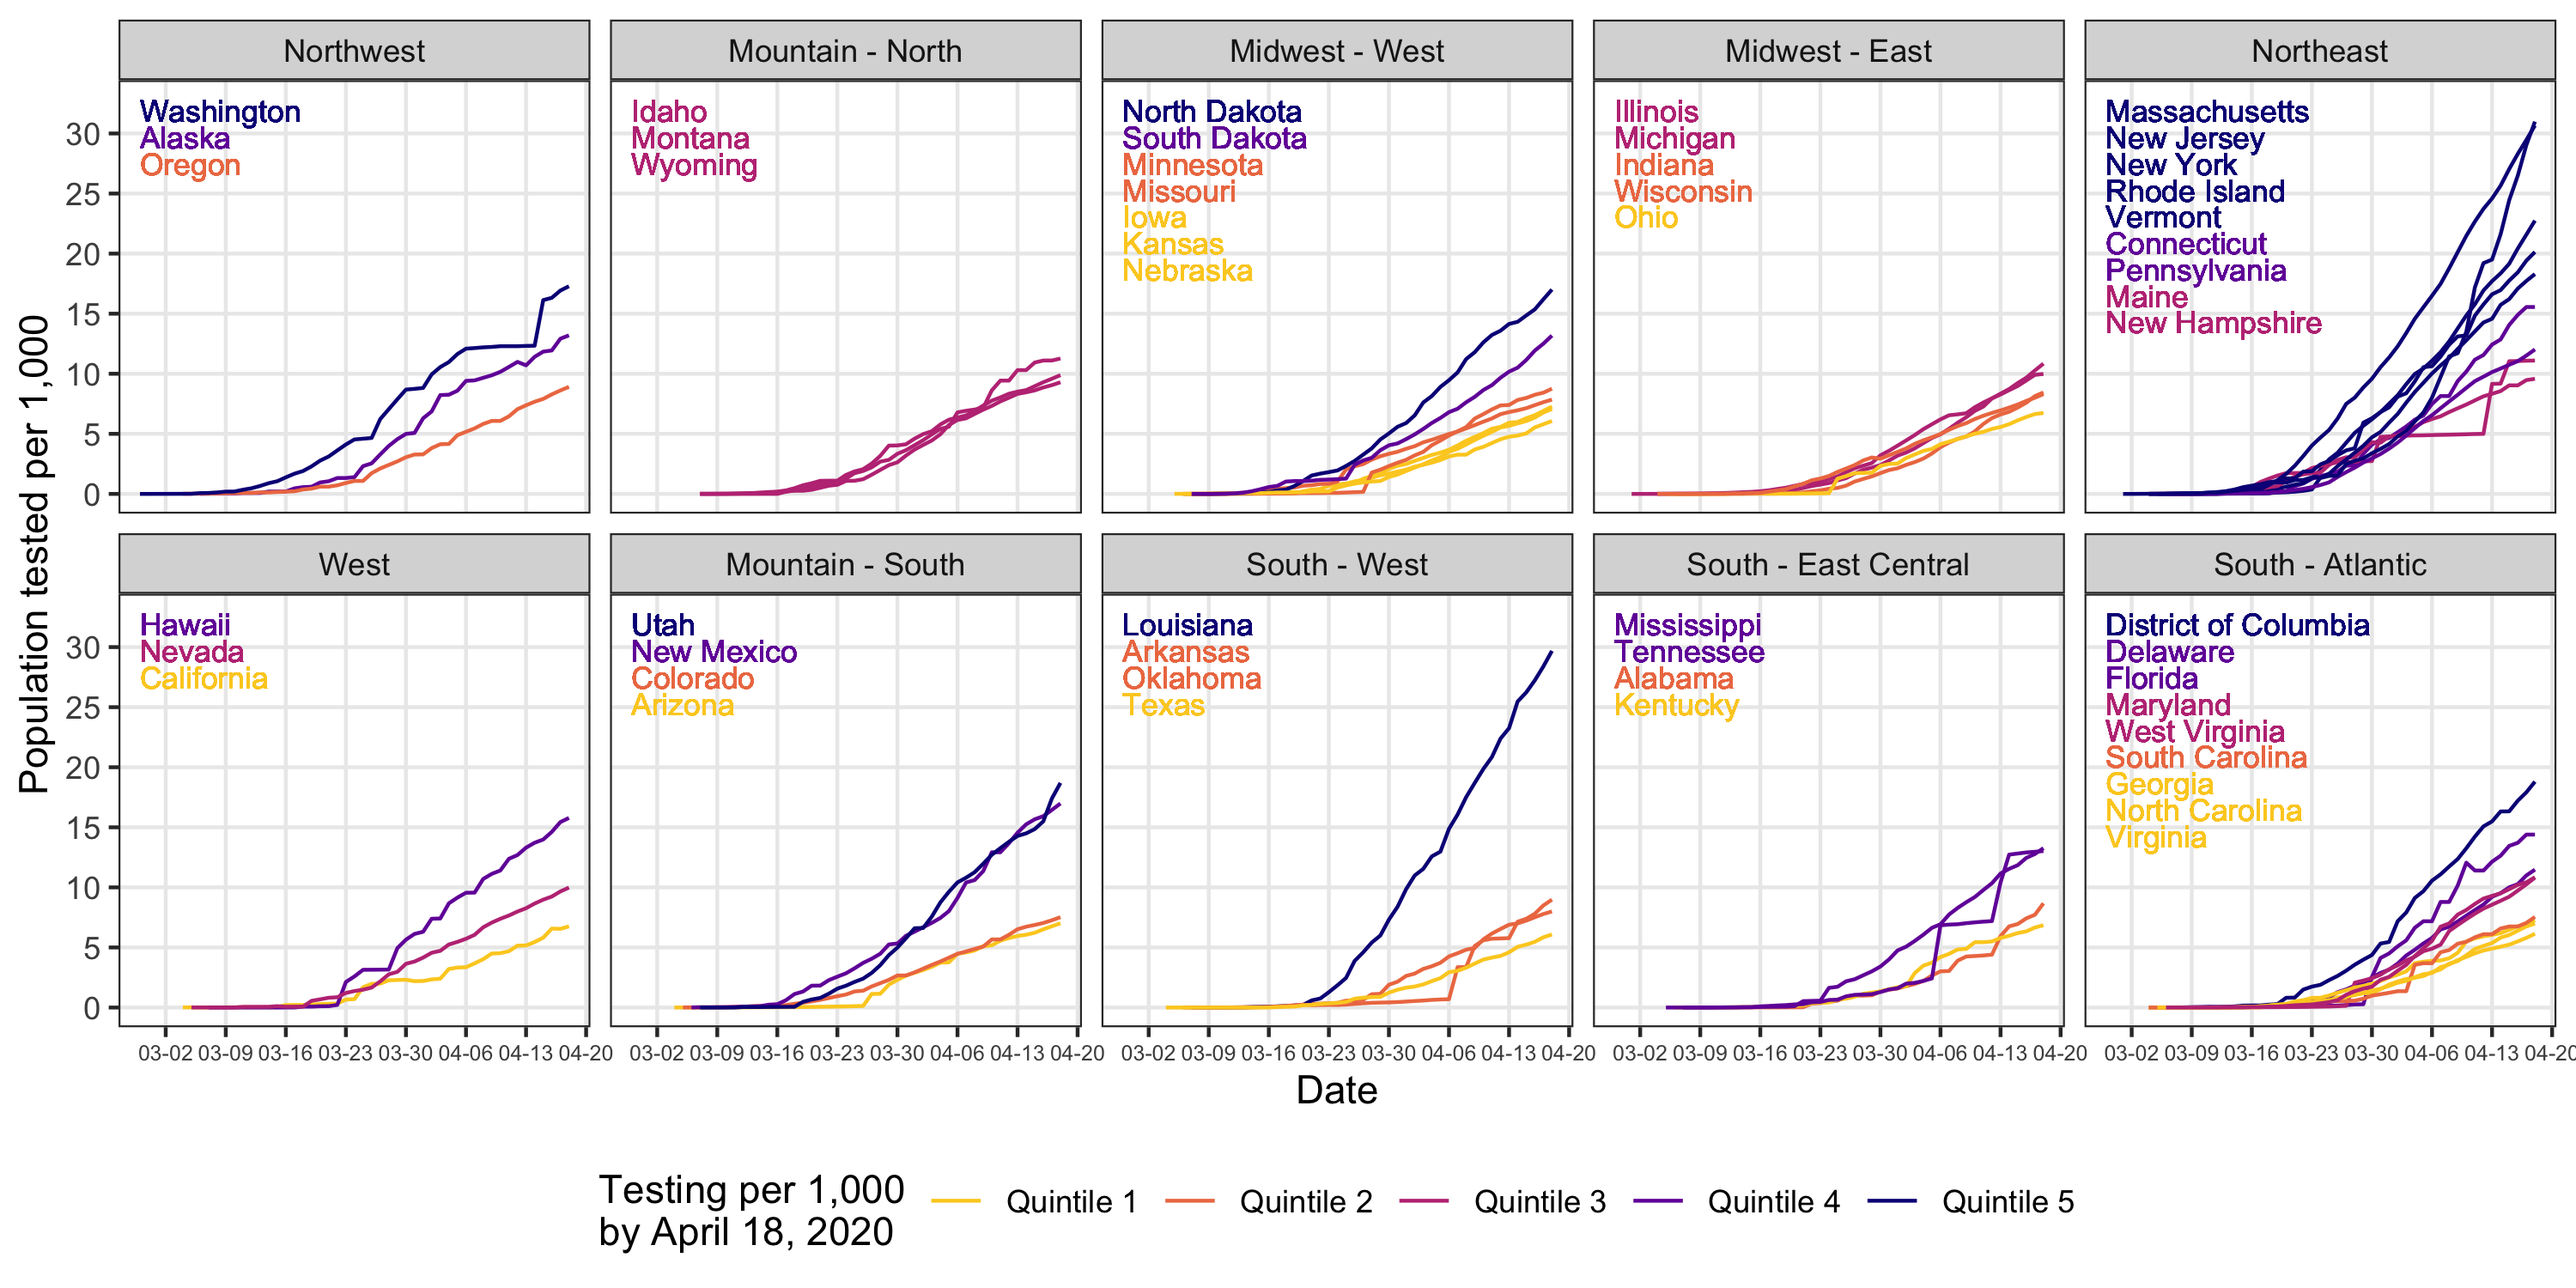
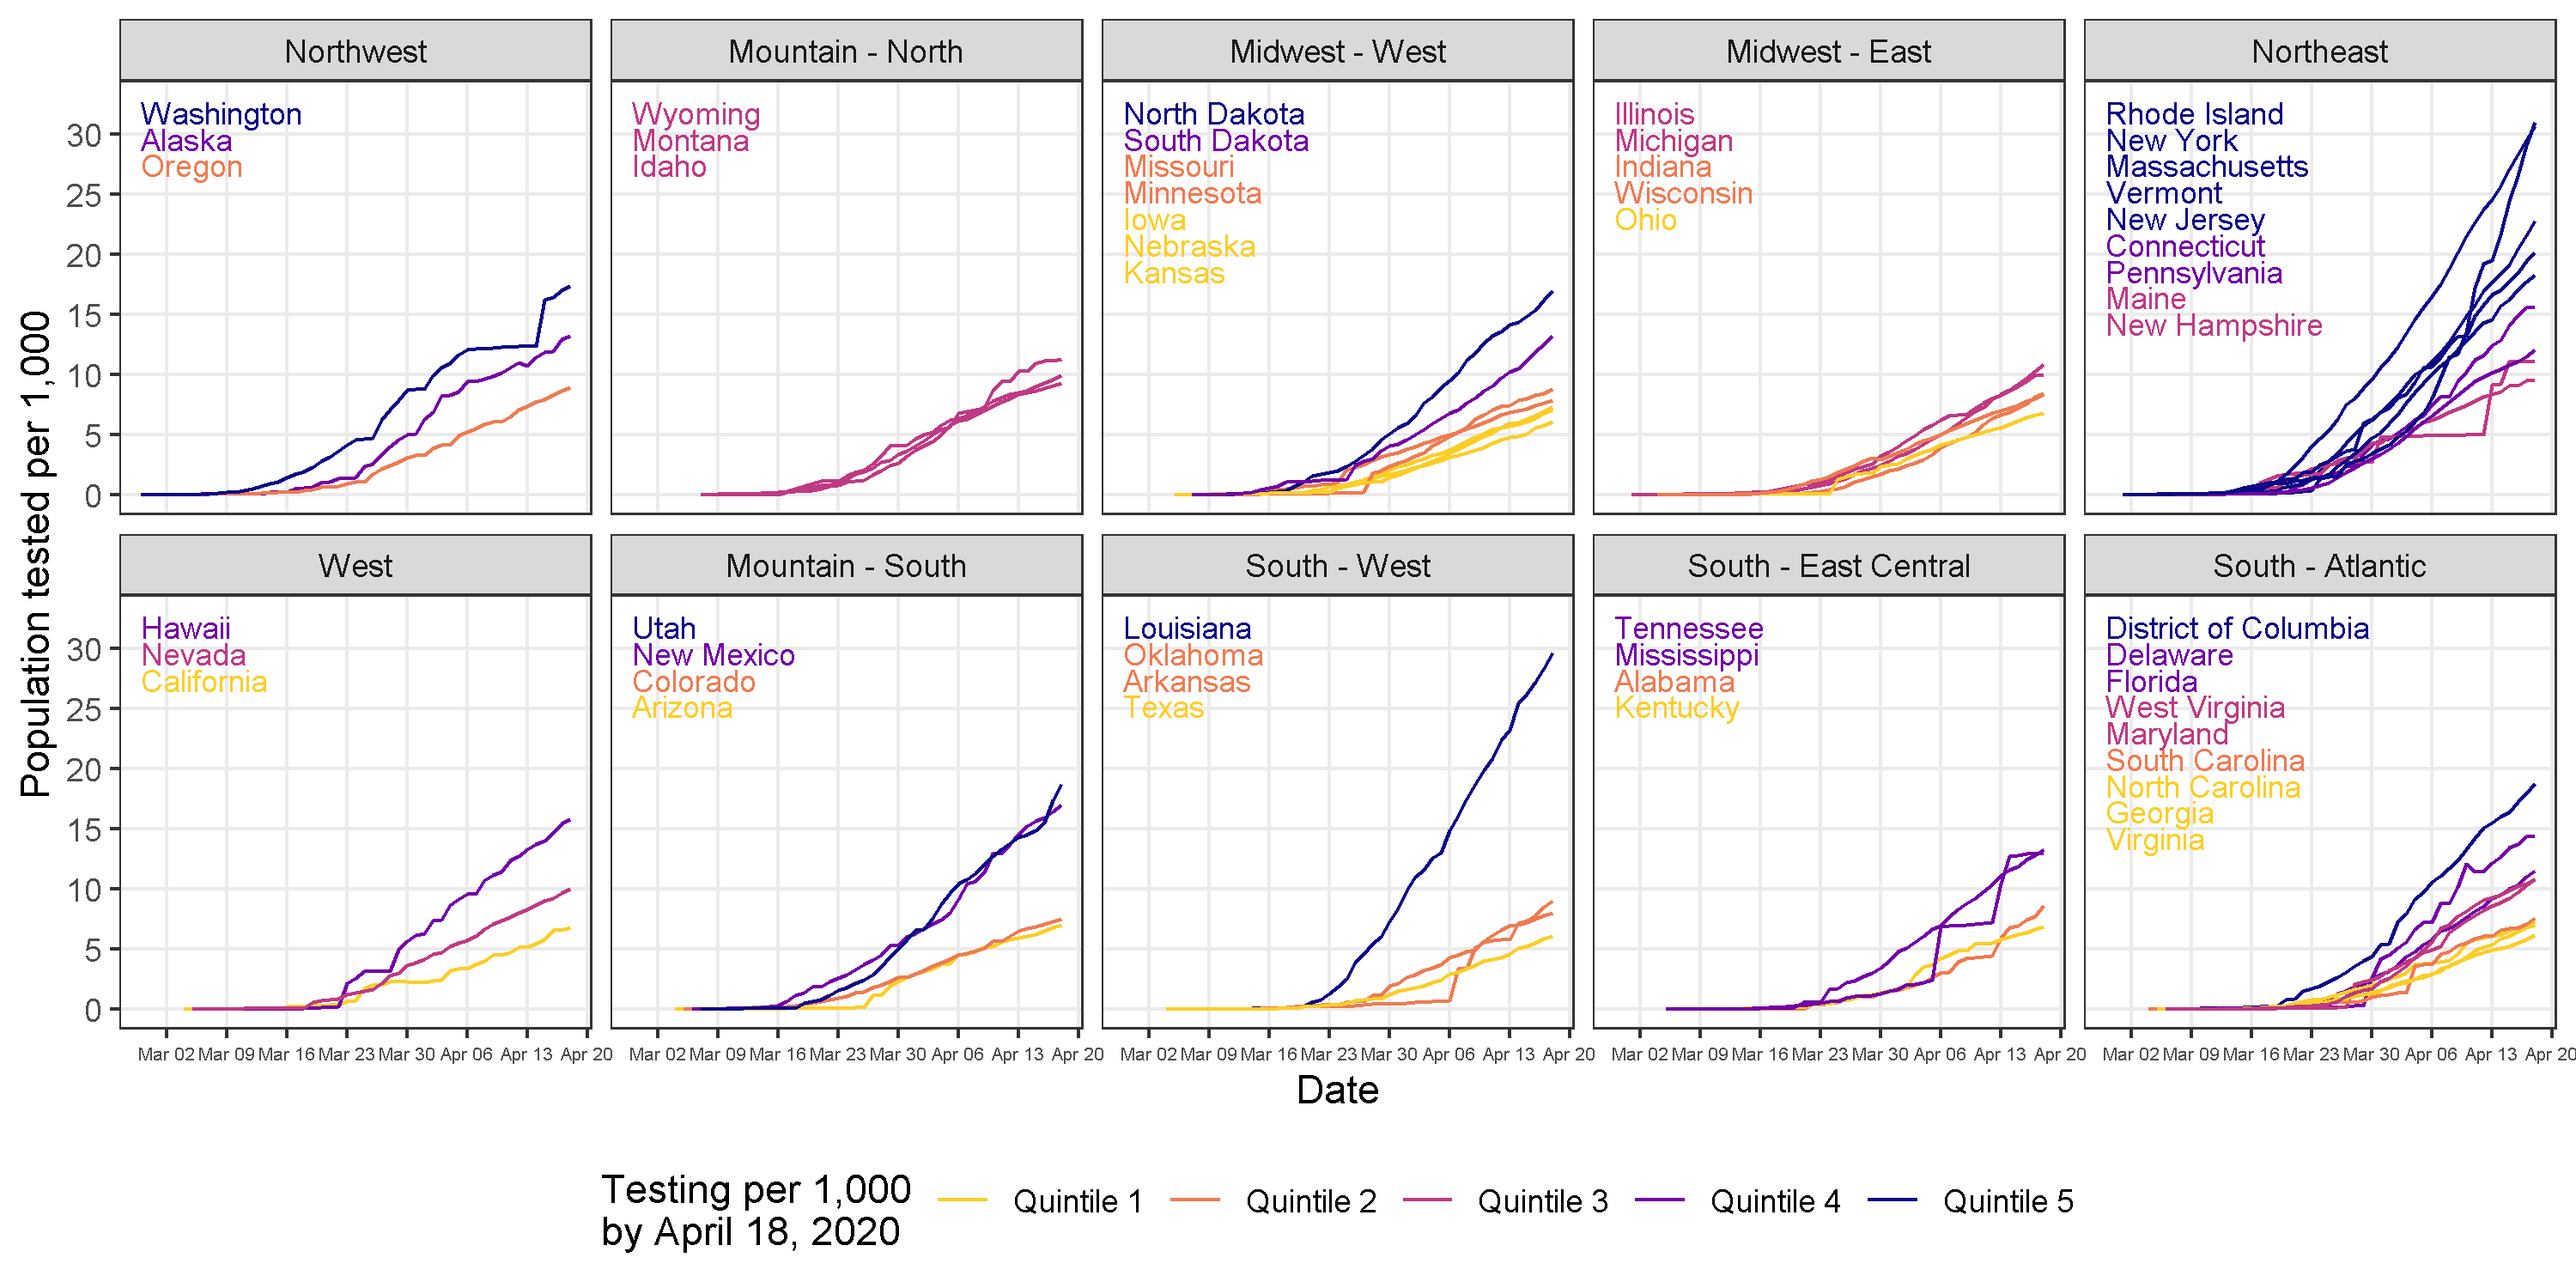
try mobile

diff --git a/_posts/2020-04-05-home.md b/_posts/2020-04-05-home.md
@@ -29,8 +29,8 @@ To date, coronavirus testing in the US has been extremely limited. Confirmed COV
 	    }
 
 	    .btn-group-first {
-	    	border-bottom-right-radius: 0;
-    		border-bottom-left-radius: 0;
+	    	border-bottom-right-radius: 0 !important;
+    		border-bottom-left-radius: 0 !important;
     		border-top-right-radius: 0.25rem !important;
     		margin-left: -1px !important;
 	    }
@@ -56,8 +56,8 @@ To date, coronavirus testing in the US has been extremely limited. Confirmed COV
 <div style="text-align: center;">
 	<div style="font-size: 12px; color:lightgray; margin-bottom: 8px;">Skip to these sections below</div>
 	<div class="btn-group-resp btn-group text-center text-md-left">
-	    <div class="btn btn-outline-success"><a href="#test">Testing</a></div>
-	    <div class="btn btn-outline-success btn-group-first"><a href="#state">Infections per State</a></div>
+	    <div class="btn btn-outline-success btn-group-first"><a href="#test">Testing</a></div>
+	    <div class="btn btn-outline-success"><a href="#state">Infections per State</a></div>
 	    <div class="btn btn-outline-success"><a href="#map">Infection Map</a></div>
 	    <div class="btn btn-outline-success btn-group-last"><a href="#methods">Methods</a></div>
 	</div>
@@ -75,6 +75,10 @@ In March and April, 2020 COVID-19 testing increased from 0.9 to 11 per 1,000 in 
 
 <div class="desktop-only" style="width:120%; margin-left:-10%;">
 	<iframe src="{{ site.baseurl }}/assets/images/fig-testrates-state.html" style="max-width:100%; width:100%; height: 700px; border-width: 0px;"></iframe>
+</div>
+
+<div class="mobile-only">
+	<img src="{{ site.baseurl }}/assets/images/fig-testrates-state.png" style="max-width:100%; width:100%; height: 700px; border-width: 0px;">
 </div>
 
 
